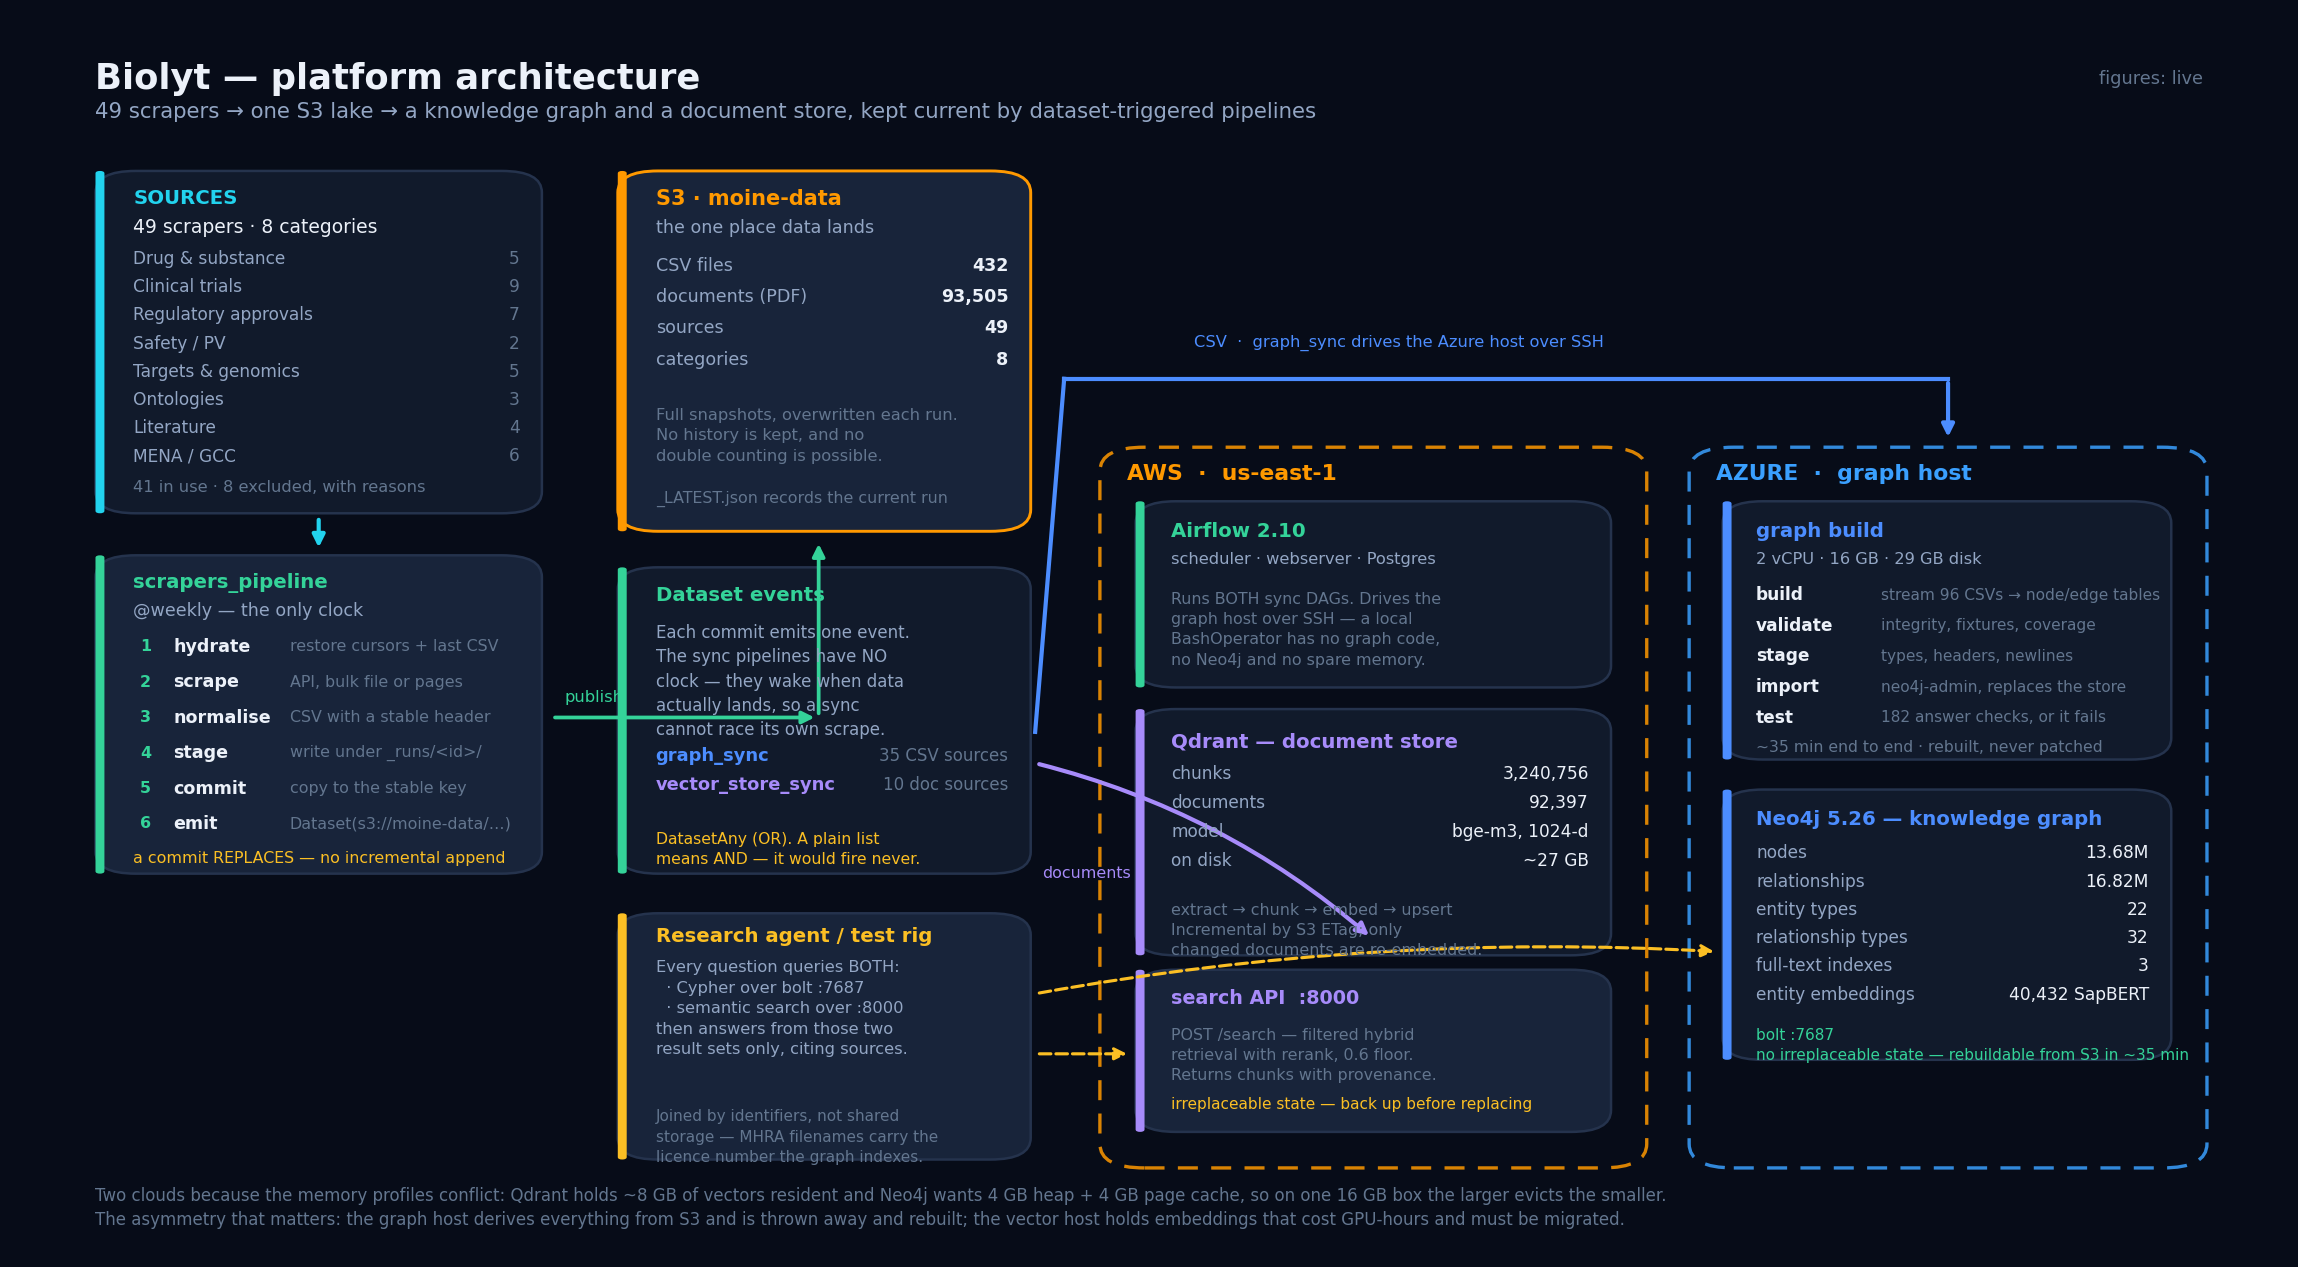
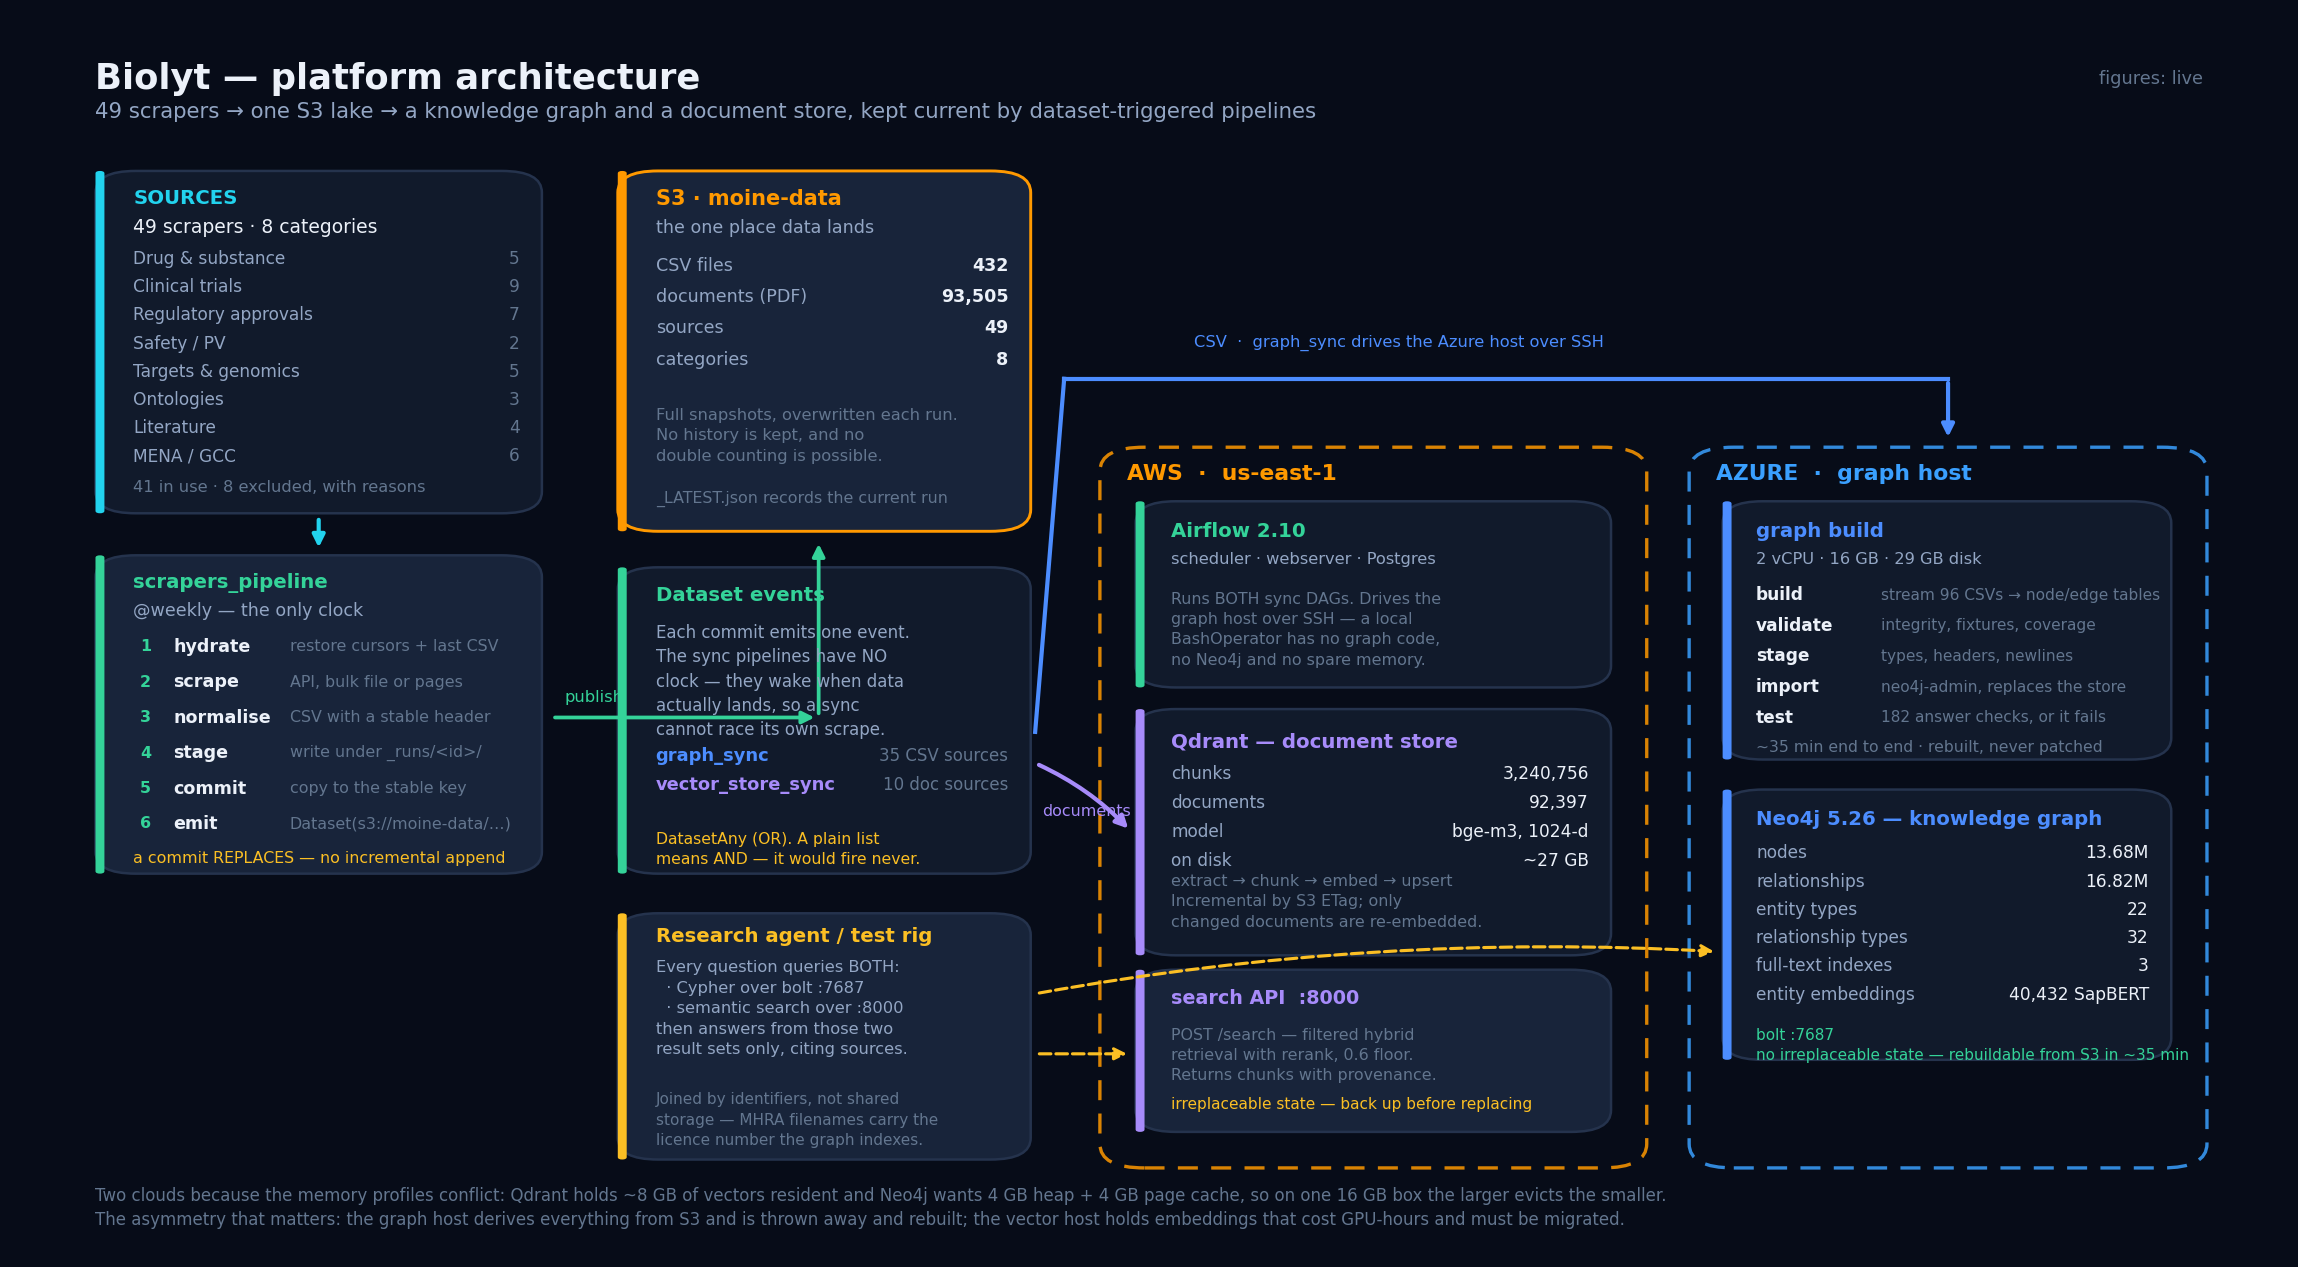
Finish the architecture diagram layout
Documents arrow stops at the Qdrant edge rather than crossing it, and
two footers that sat on their box edges moved up.

diff --git a/graph/make_architecture_png.py b/graph/make_architecture_png.py
@@ -230,7 +230,7 @@ def main():
         yy = 0.383 - i * 0.024
         txt(ax, 0.510, yy, k, size=8.2, color=MUTED)
         txt(ax, 0.697, yy, v, size=8.2, color=TEXT, ha="right")
-    txt(ax, 0.510, 0.276,
+    txt(ax, 0.510, 0.300,
         "extract → chunk → embed → upsert\nIncremental by S3 ETag; only\n"
         "changed documents are re-embedded.", size=7.6, color=DIM)
 
@@ -281,8 +281,9 @@ def main():
         size=7.3, color=GREEN)
 
     # ---- flows into the two stores
-    arrow(ax, (0.449, 0.392), (0.60, 0.246), color=VIOLET, lw=2, rad=-0.12)
-    txt(ax, 0.452, 0.30, "documents", size=7.6, color=VIOLET)
+    # Stops at the Qdrant edge - drawn to 0.60 it ran through the box.
+    arrow(ax, (0.449, 0.392), (0.492, 0.335), color=VIOLET, lw=2, rad=-0.10)
+    txt(ax, 0.452, 0.352, "documents", size=7.6, color=VIOLET)
     # Routed above both cloud regions rather than across them - drawn through,
     # the line and its label sat on top of the AWS box and the AZURE heading.
     ax.plot([0.449, 0.462], [0.418, 0.712], color=BLUE, lw=2, zorder=4)
@@ -303,7 +304,7 @@ def main():
         "  · semantic search over :8000\n"
         "then answers from those two\nresult sets only, citing sources.",
         size=7.8, color=MUTED)
-    txt(ax, 0.279, 0.104,
+    txt(ax, 0.279, 0.118,
         "Joined by identifiers, not shared\nstorage — MHRA filenames carry "
         "the\nlicence number the graph indexes.", size=7.3, color=DIM)
 
